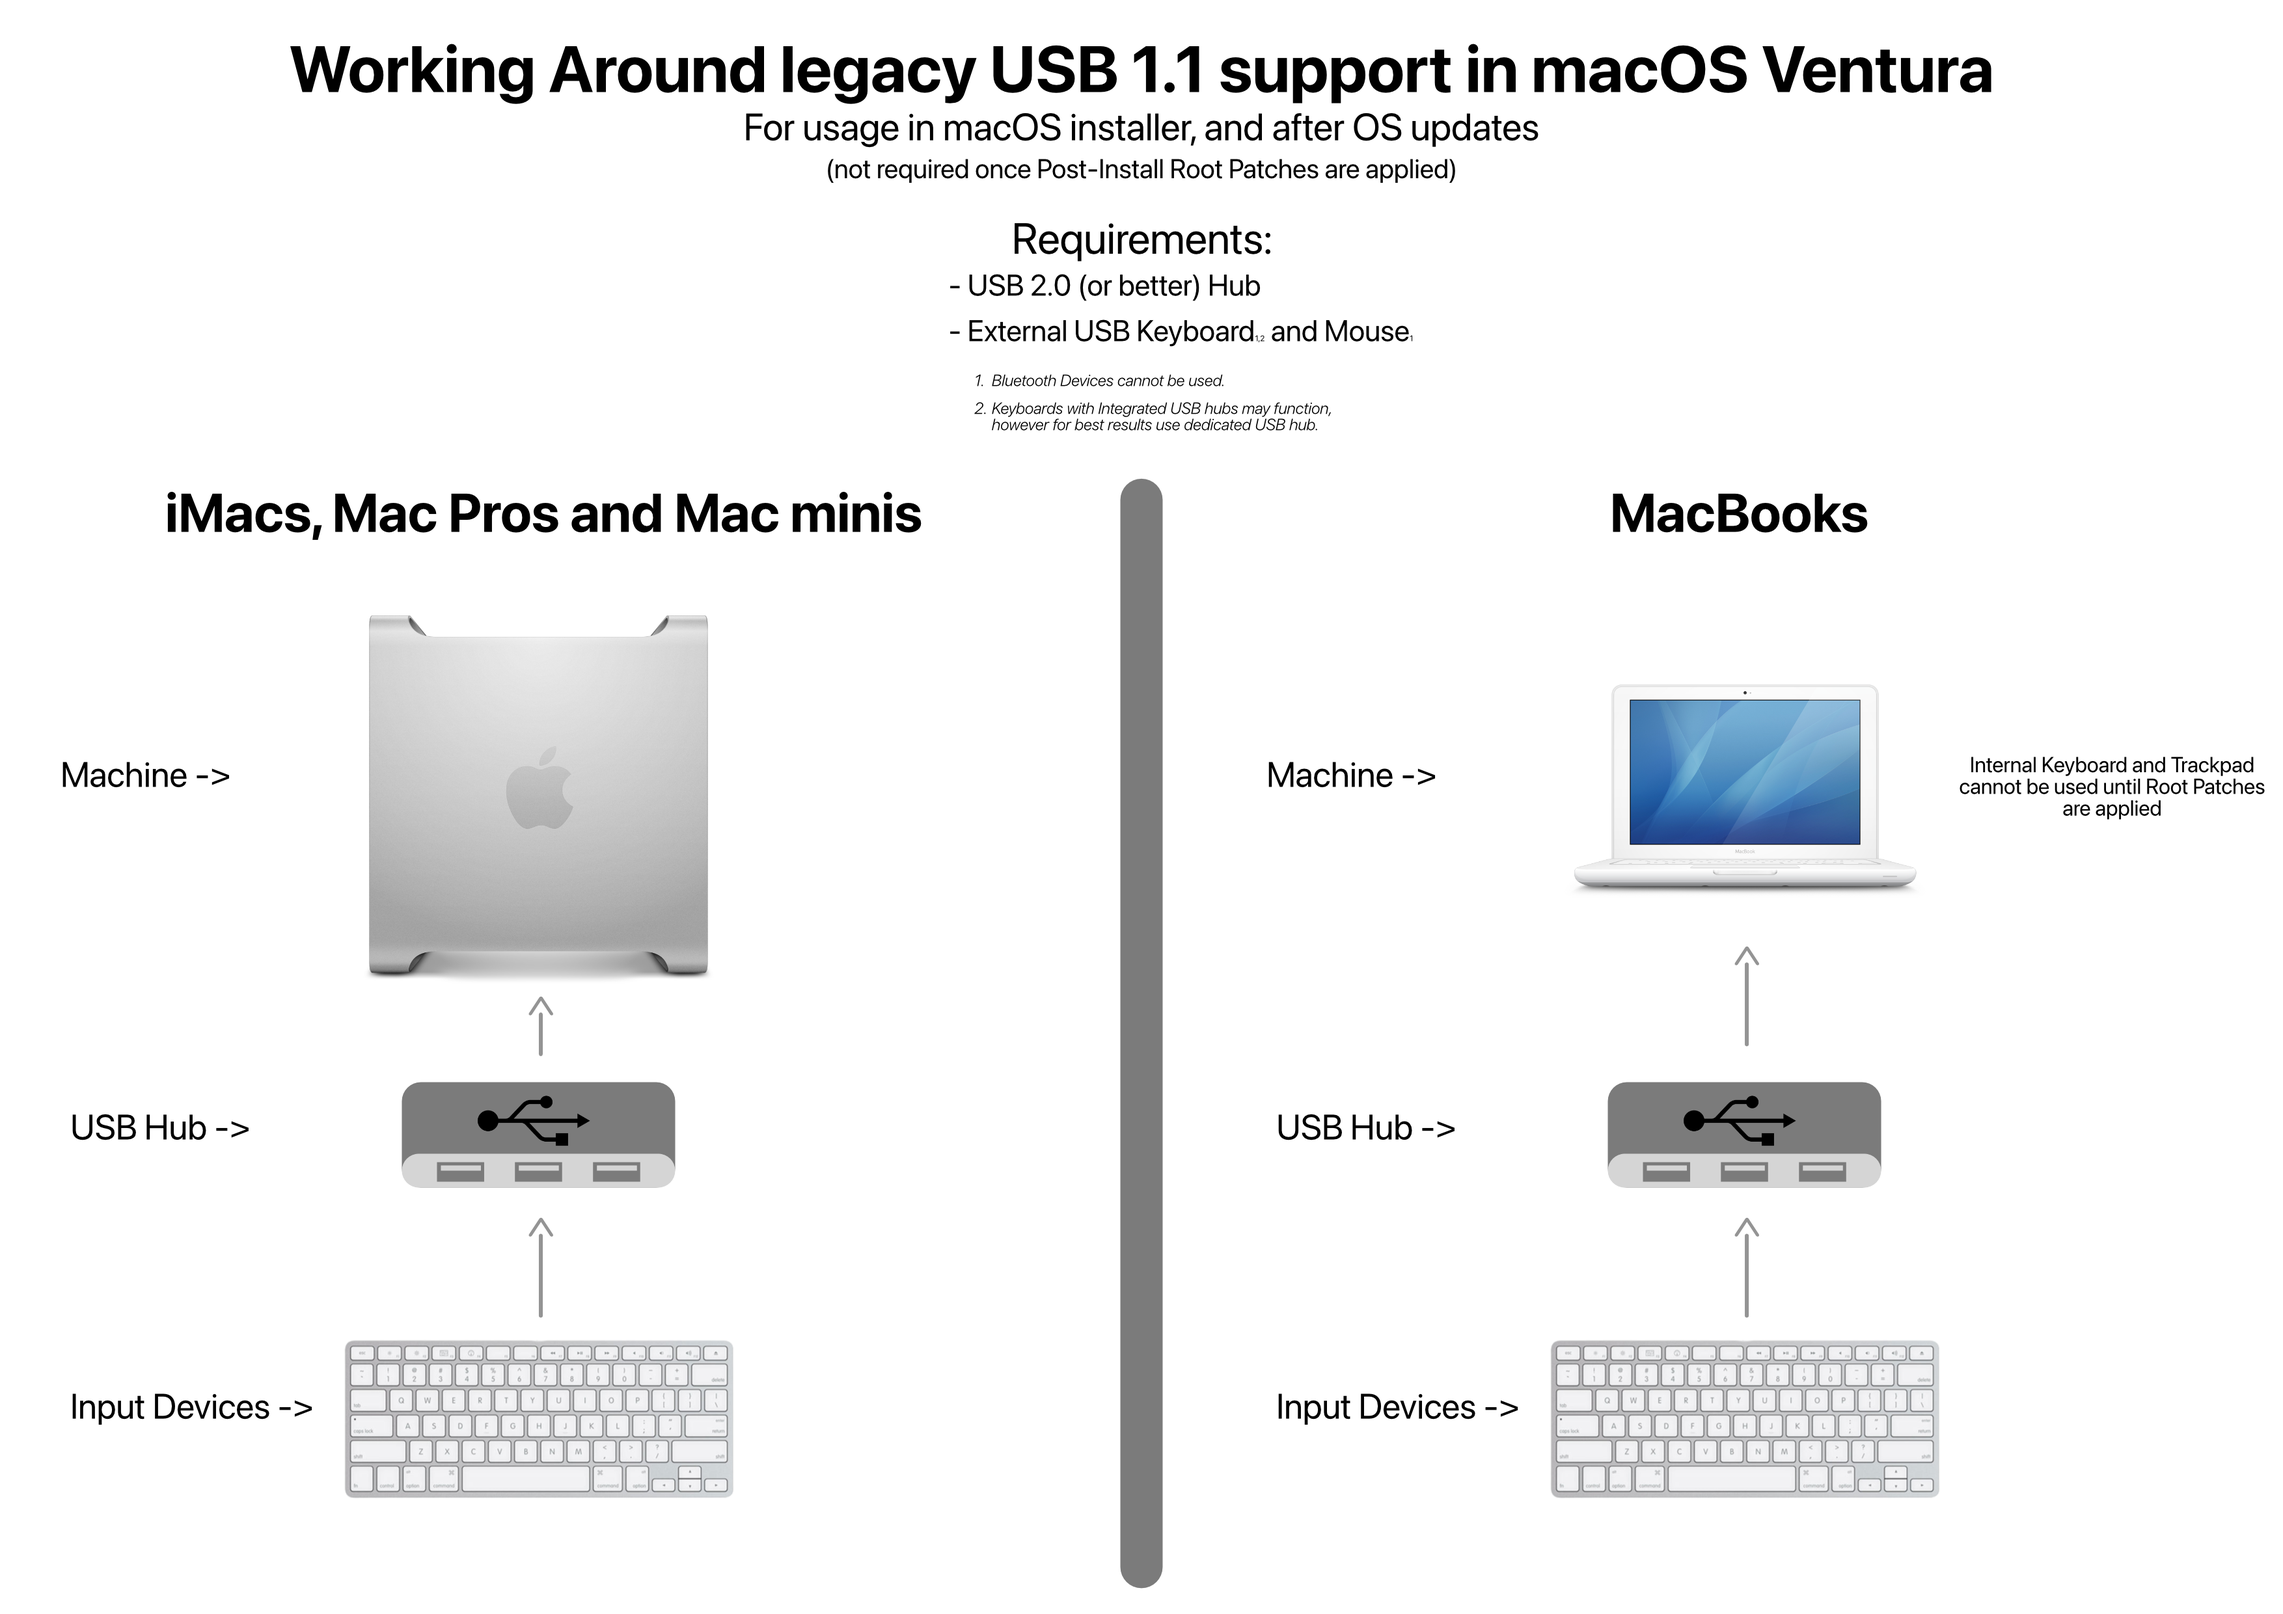
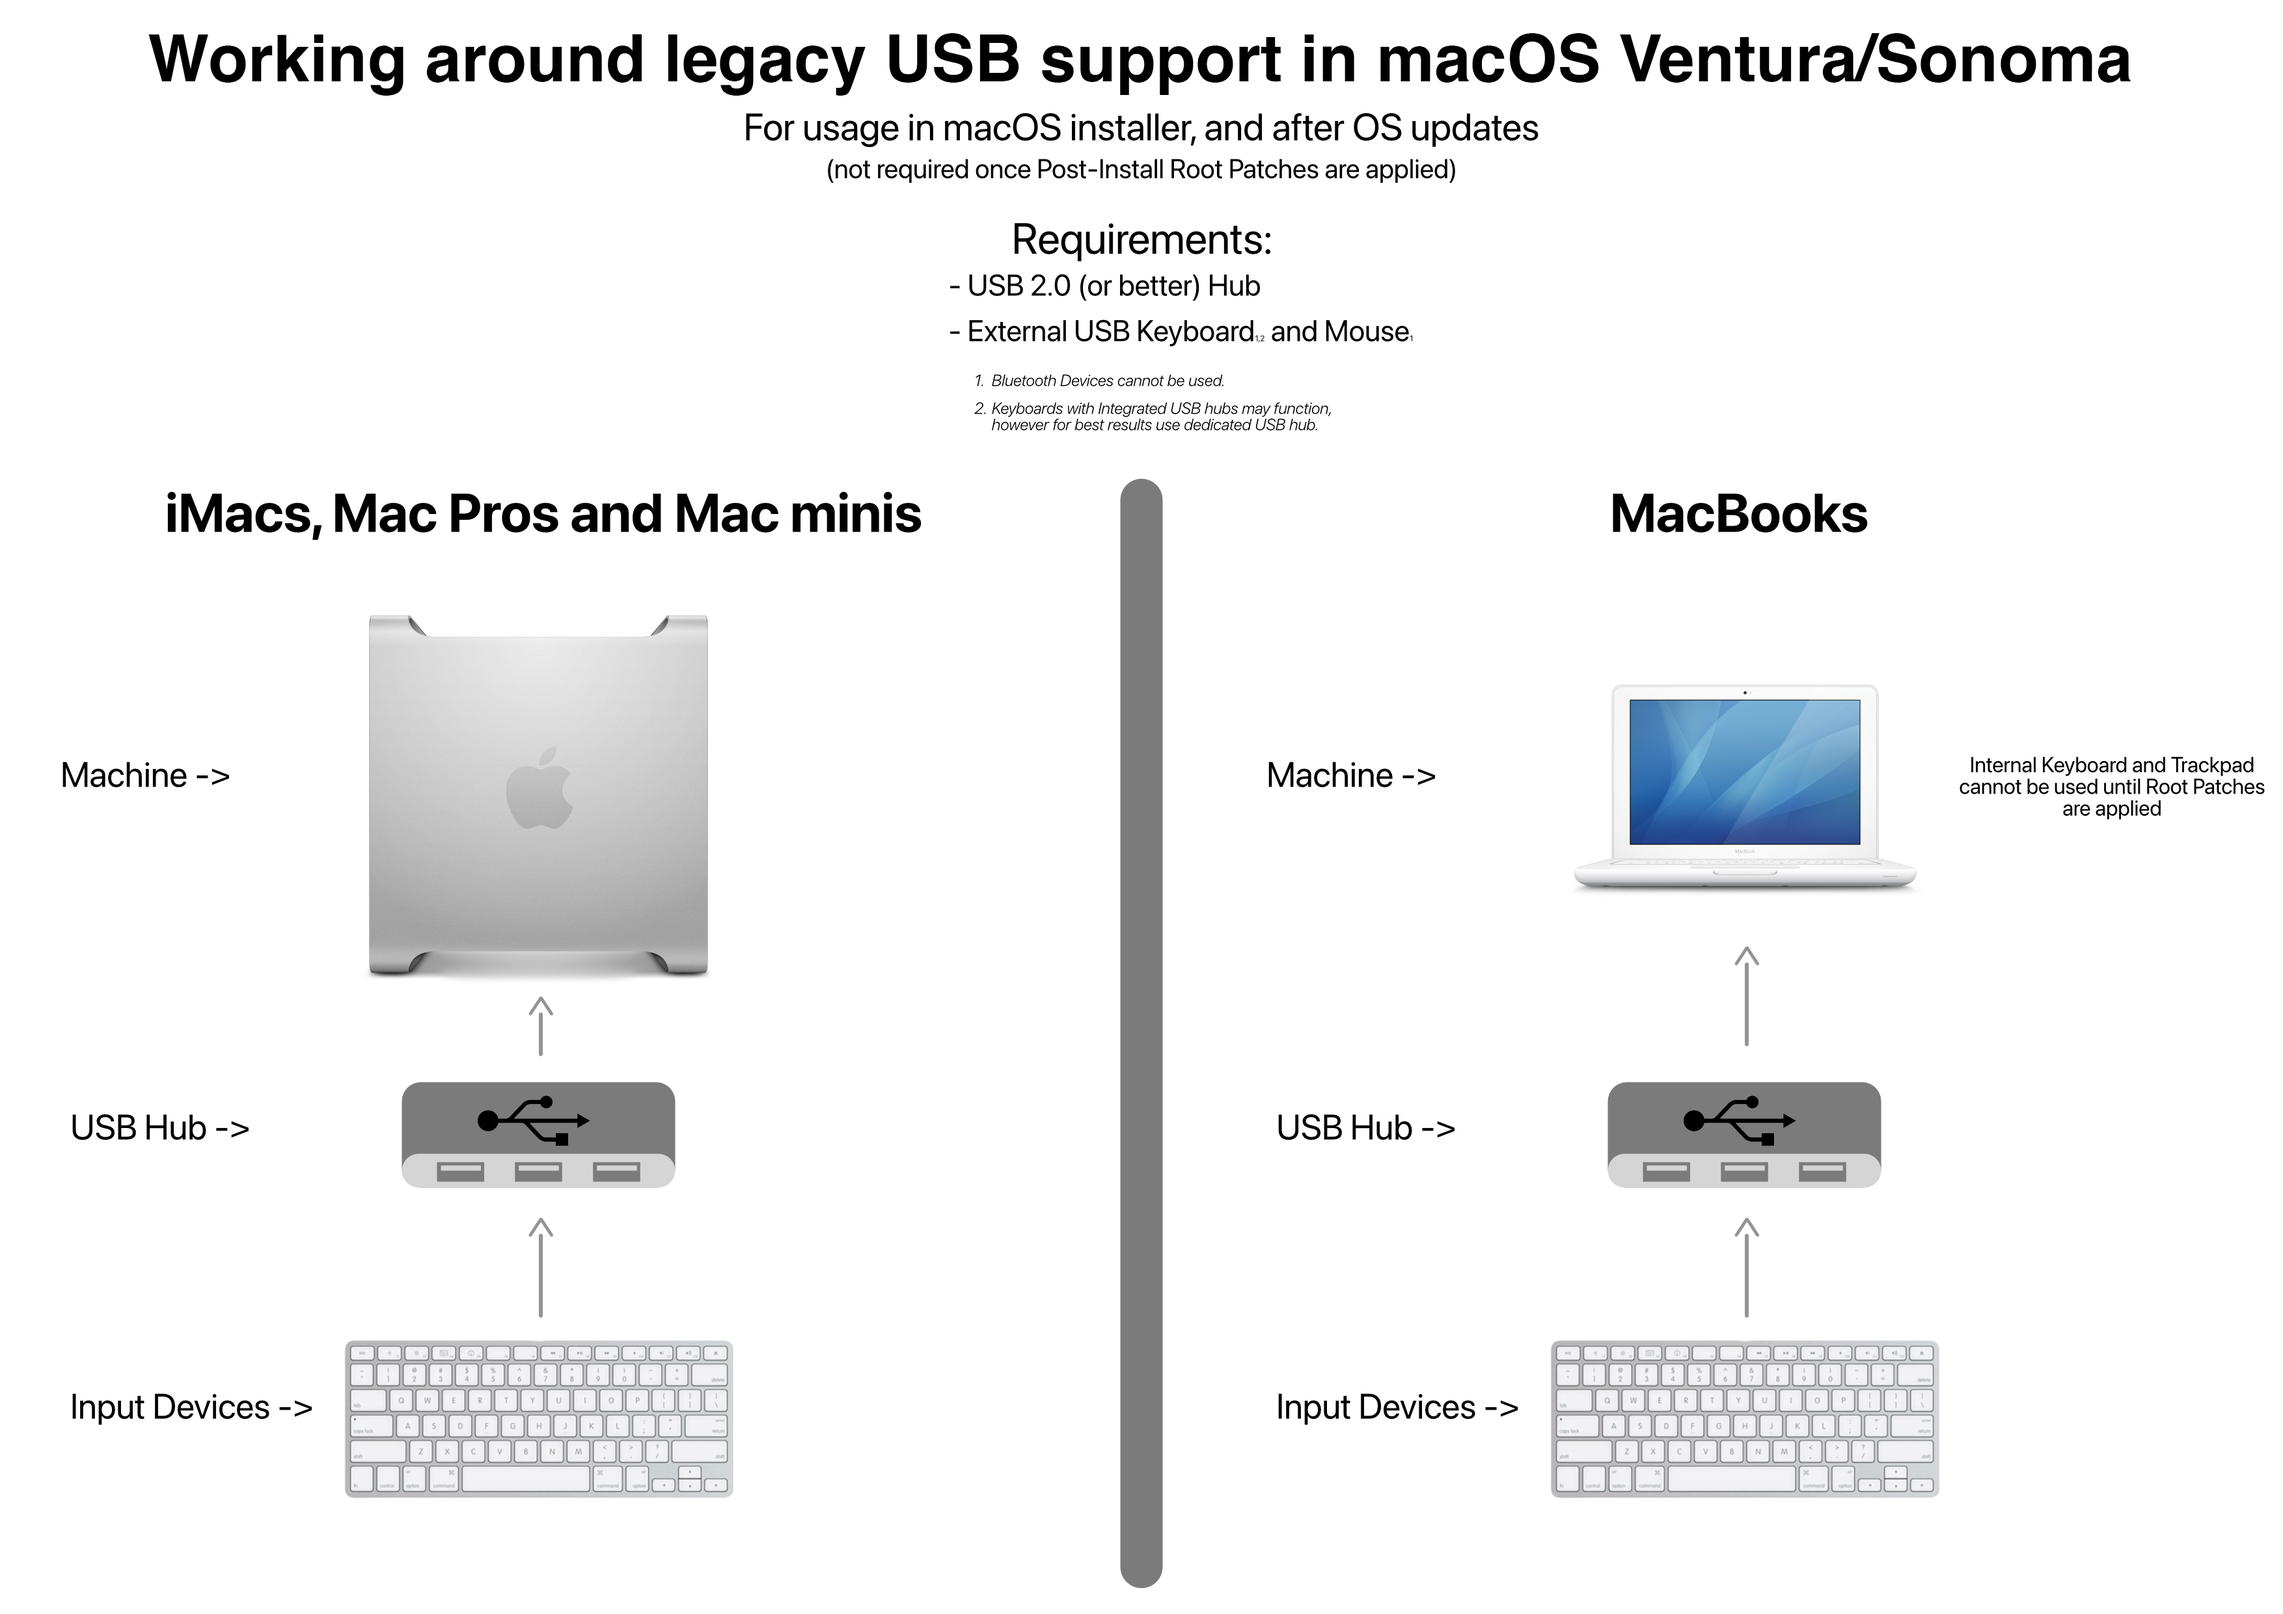
SONOMA-DROP.md (#1106)
* Add files via upload

* SONOMA-DROP.md

* Update SONOMA-DROP.md

* Add Sonoma doc to sidebar

* Update SONOMA-DROP.md

* Update SONOMA-DROP.md

* Update SONOMA-DROP.md

* Update SONOMA-DROP.md

* Update SONOMA-DROP.md

* Update USB1.1 Chart headline

* Fix the warning line

* Add links to non-Metal and Metal issues

* Add versioning note and reorganize

* Reorganize

* Add links

* Small changes

* Fix few things

* Fix link

* Fix link description

* Intel -> Ivy

Goddamnit

* Remove widget freeze note

* Small change

Changed region(s): [[0.0621, 0.0, 0.9322, 0.0621]]

diff --git a/docs/.vuepress/config.js b/docs/.vuepress/config.js
@@ -93,6 +93,15 @@ module.exports = {
 
         },
         {
+            title: 'macOS Sonoma',
+            collapsable: false,
+            sidebarDepth: 1,
+            children: [
+				['SONOMA-DROP', 'macOS Sonoma Support'],
+            ]
+        },
+		  
+	{
             title: 'macOS Ventura',
             collapsable: false,
             sidebarDepth: 1,

diff --git a/docs/SONOMA-DROP.md b/docs/SONOMA-DROP.md
@@ -1,0 +1,82 @@
+![](../images/sonoma.png)
+
+*Well here we are again, it's always such a pleasure~* 
+
+Apple has yet again dropped a bunch of models, continuing their journey on discontinuing Intel Macs. With the release of OpenCore Legacy Patcher v1.0.0, early support for macOS Sonoma has been implemented.
+
+## Versioning
+
+With v1.0.0, we'll be switching to a proper major, minor and bug fix system ([Semantic Versioning](https://semver.org/)). This means the coming release will be version 1.0.0, and future releases plan to follow this scheme:
+
+- First digit: Major changes, including new OS support, API changes, and significant patch set changes, etc
+- Second digit: Minor changes, including incoming OS update fixes, minor patch set changes, etc
+- Third digit: Bug fixes, primarily hot fixes either due to a regression in prior release or resolving issues in already released OS updates
+
+
+## Newly dropped hardware
+
+* MacBook10,1:       MacBook (Retina, 12-inch, 2017)
+* MacBookPro14,1:    MacBook Pro (13-inch, 2017, Two Thunderbolt 3 ports)
+* MacBookPro14,2:    MacBook Pro (13-inch, 2017, Four Thunderbolt 3 Ports) 
+* MacBookPro14,3:    MacBook Pro (15-inch, 2017)
+* iMac18,1:          iMac (21.5-inch, 2017)
+* iMac18,2:          iMac (Retina 4K, 21.5-inch, 2017)
+* iMac18,3:          iMac (Retina 5K, 27-inch, 2017)
+
+## Current status
+
+OpenCore Legacy Patcher v1.0.0 will support Sonoma for all models normally supported by the Patcher, however some challenges remain. You can find information about them below.
+
+## Issues
+
+* [T1 Security chip](t1-security-chip)
+* [USB 1.1 (OHCI/UHCI) Support](#usb-11-ohciuhci-support)
+* [Graphics support and issues](#graphics-support-and-issues)
+
+
+### T1 Security chip
+
+Sonoma has removed support for T1 chips found in most 2016 and 2017 Macs. Therefore on these systems, the following will not function:
+
+* Enable or disable FileVault
+* Open the Password Settings window
+* Add fingerprints (if upgrading, existing fingerprints will be deleted)
+* Add cards to Apple Pay
+
+::: warning ATTENTION: Additionally, due to Sonoma no longer caring about T1, erasing the entire drive will remove the T1 firmware and it won't be reinstalled.
+:::
+No known solution to resolve supporting, a significant amount of time will be required to understand how both the T1 stack works, as well as where the core issue lies for support.
+
+[More information here](https://github.com/dortania/OpenCore-Legacy-Patcher/issues/1103)
+
+### USB 1.1 (OHCI/UHCI) Support
+
+For Penryn systems, pre-2013 Mac Pros and Xserve, USB 1.1 support was outright removed in macOS Ventura and naturally this continues in Sonoma. 
+While USB 1.1 may seem unimportant, it handles many important devices on your system. These include:
+
+* Keyboard and Trackpad for laptops
+* IR Receivers
+* Bluetooth
+
+With OpenCore Legacy Patcher v0.6.0+, basic support has been implemented via Root Volume patching. However due to this, users will need to use a USB hub for installation and post-OS updates when patches are cleaned:
+
+![](../images/usb11-chart.png)
+
+::: warning The following systems rely on USB 1.1
+
+* iMac10,x and older
+* Macmini3,1 and older
+* MacBook7,1 and older
+* MacBookAir3,1 and older
+* MacPro5,1 and older
+* Xserve 3,1 and older
+:::
+
+[More information here](https://github.com/dortania/OpenCore-Legacy-Patcher/issues/1021)
+
+### Graphics support and issues
+This build includes both Legacy Metal and non-Metal patches for macOS Sonoma. Refer to the following links for more information about Legacy Metal and non-Metal support and their respective issues.
+
+* [Legacy Metal](https://github.com/dortania/OpenCore-Legacy-Patcher/issues/1008) 
+* [Non-Metal](https://github.com/dortania/OpenCore-Legacy-Patcher/issues/108)
+
